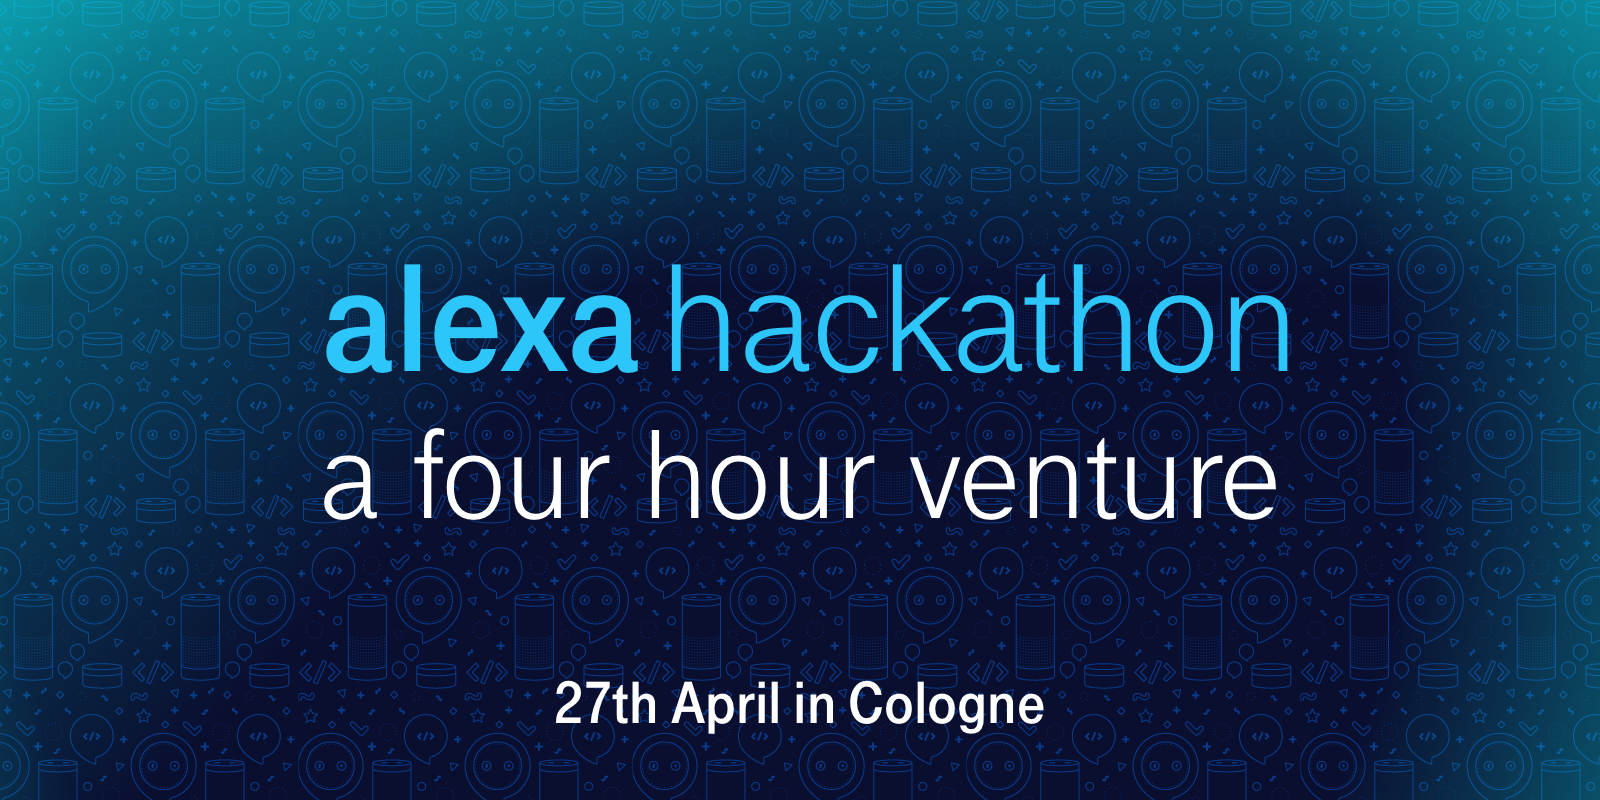
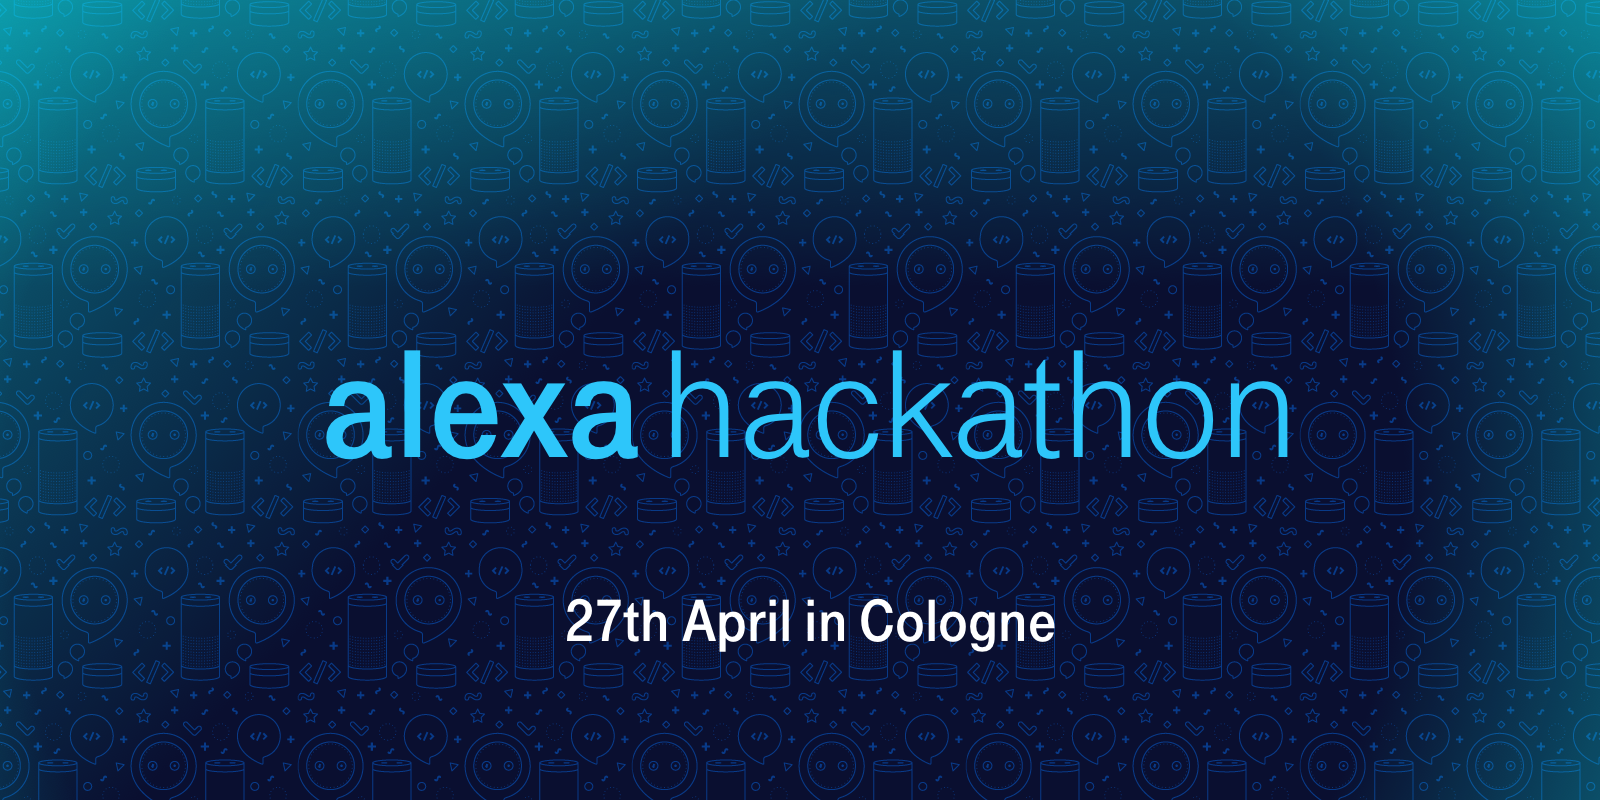
Update alexa hackathon event

Changed region(s): [[0.1875, 0.3125, 0.8125, 0.6562], [0.3438, 0.8438, 0.6562, 0.9375], [0.3438, 0.75, 0.6562, 0.8125]]

diff --git a/alexa-hackathon/index.de.html b/alexa-hackathon/index.de.html
@@ -90,9 +90,9 @@
                     <div class="col-md-8 col-md-offset-2">
                         <!--<p class="intro-keywords">Invent. Design. Develop.</p>-->
                         <h1 class="brand-heading alexa"><strong>alexa</strong> hackathon</h1>
-                        <h2 class="brand-heading">a four hour venture</h2>
+                        <!--<h2 class="brand-heading">a four hour venture</h2>-->
                         <p class="intro-text">
-                            Details folgen.
+                            Weitere Details folgen
                         </p>
                         <p>
                             <a href="#about" class="btn btn-circle page-scroll">

diff --git a/alexa-hackathon/index.en.html b/alexa-hackathon/index.en.html
@@ -89,7 +89,7 @@
                     <div class="col-md-8 col-md-offset-2">
                         <!--<p class="intro-keywords">Invent. Design. Develop.</p>-->
                         <h1 class="brand-heading alexa"><strong>alexa</strong> hackathon</h1>
-                        <h2 class="brand-heading">a four hour venture</h2>
+                        <!--<h2 class="brand-heading">a four hour venture</h2>-->
                         <p class="intro-text">
                             details tba.
                         </p>
